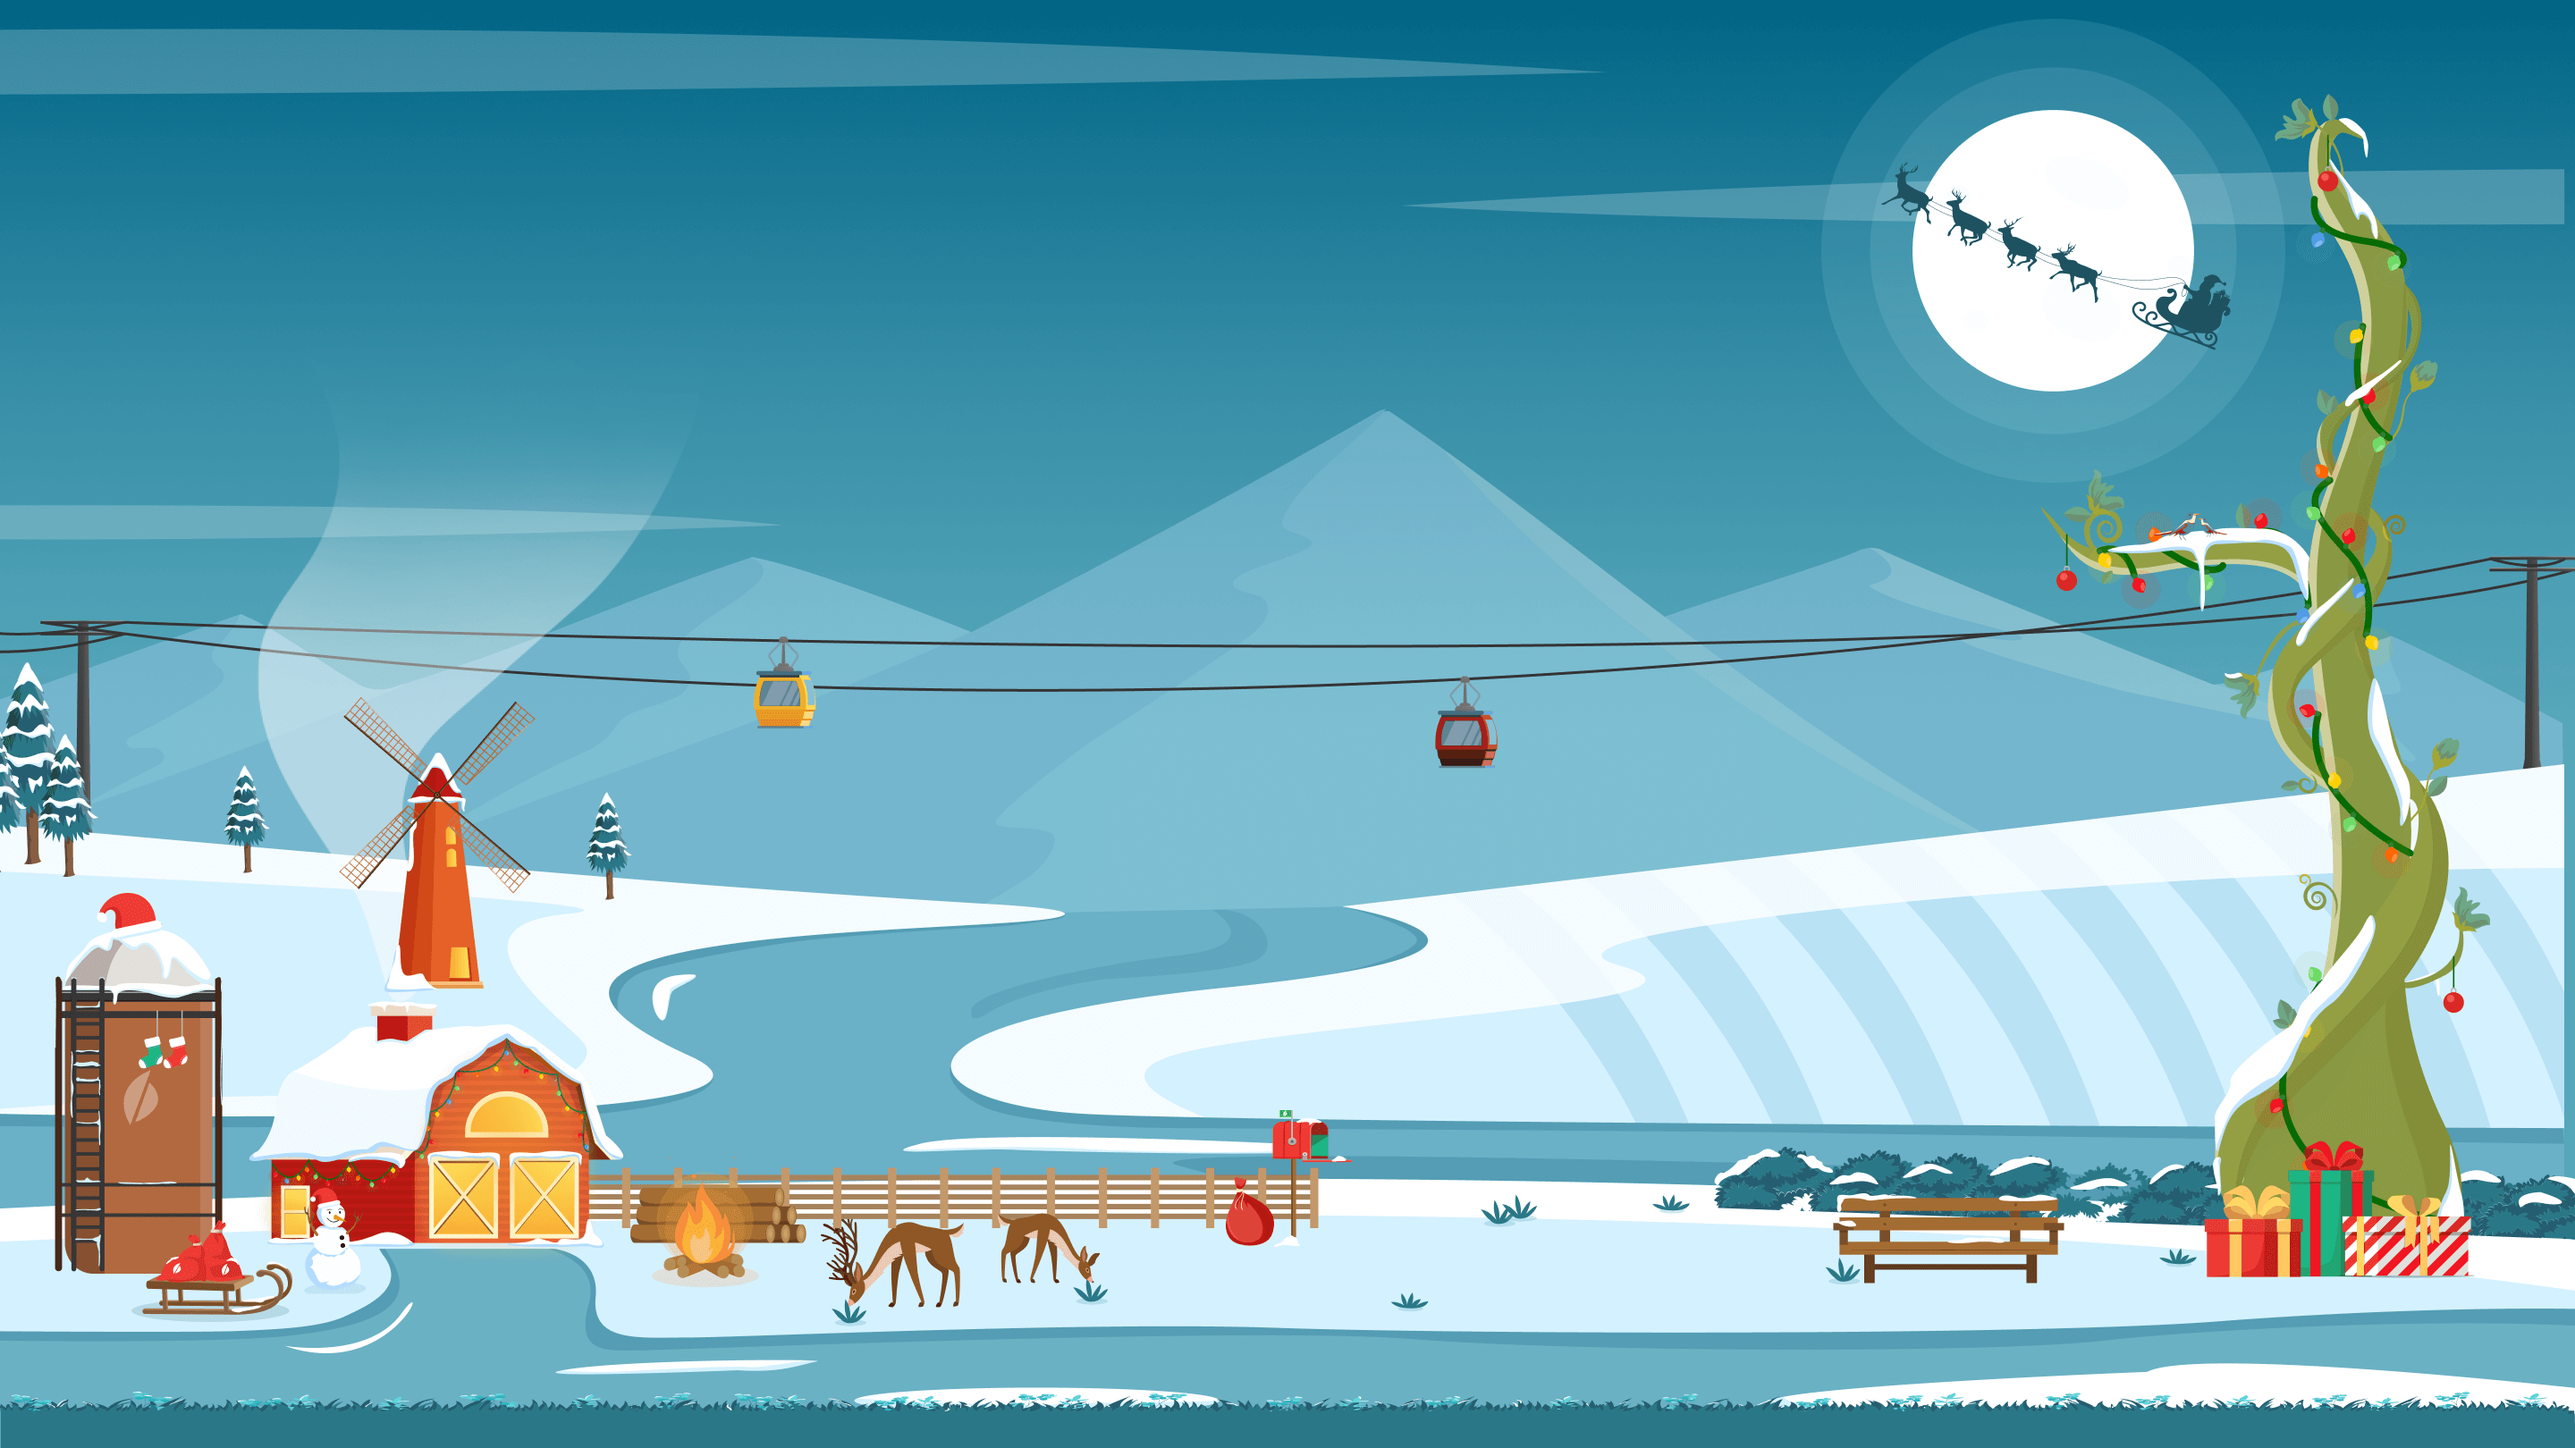
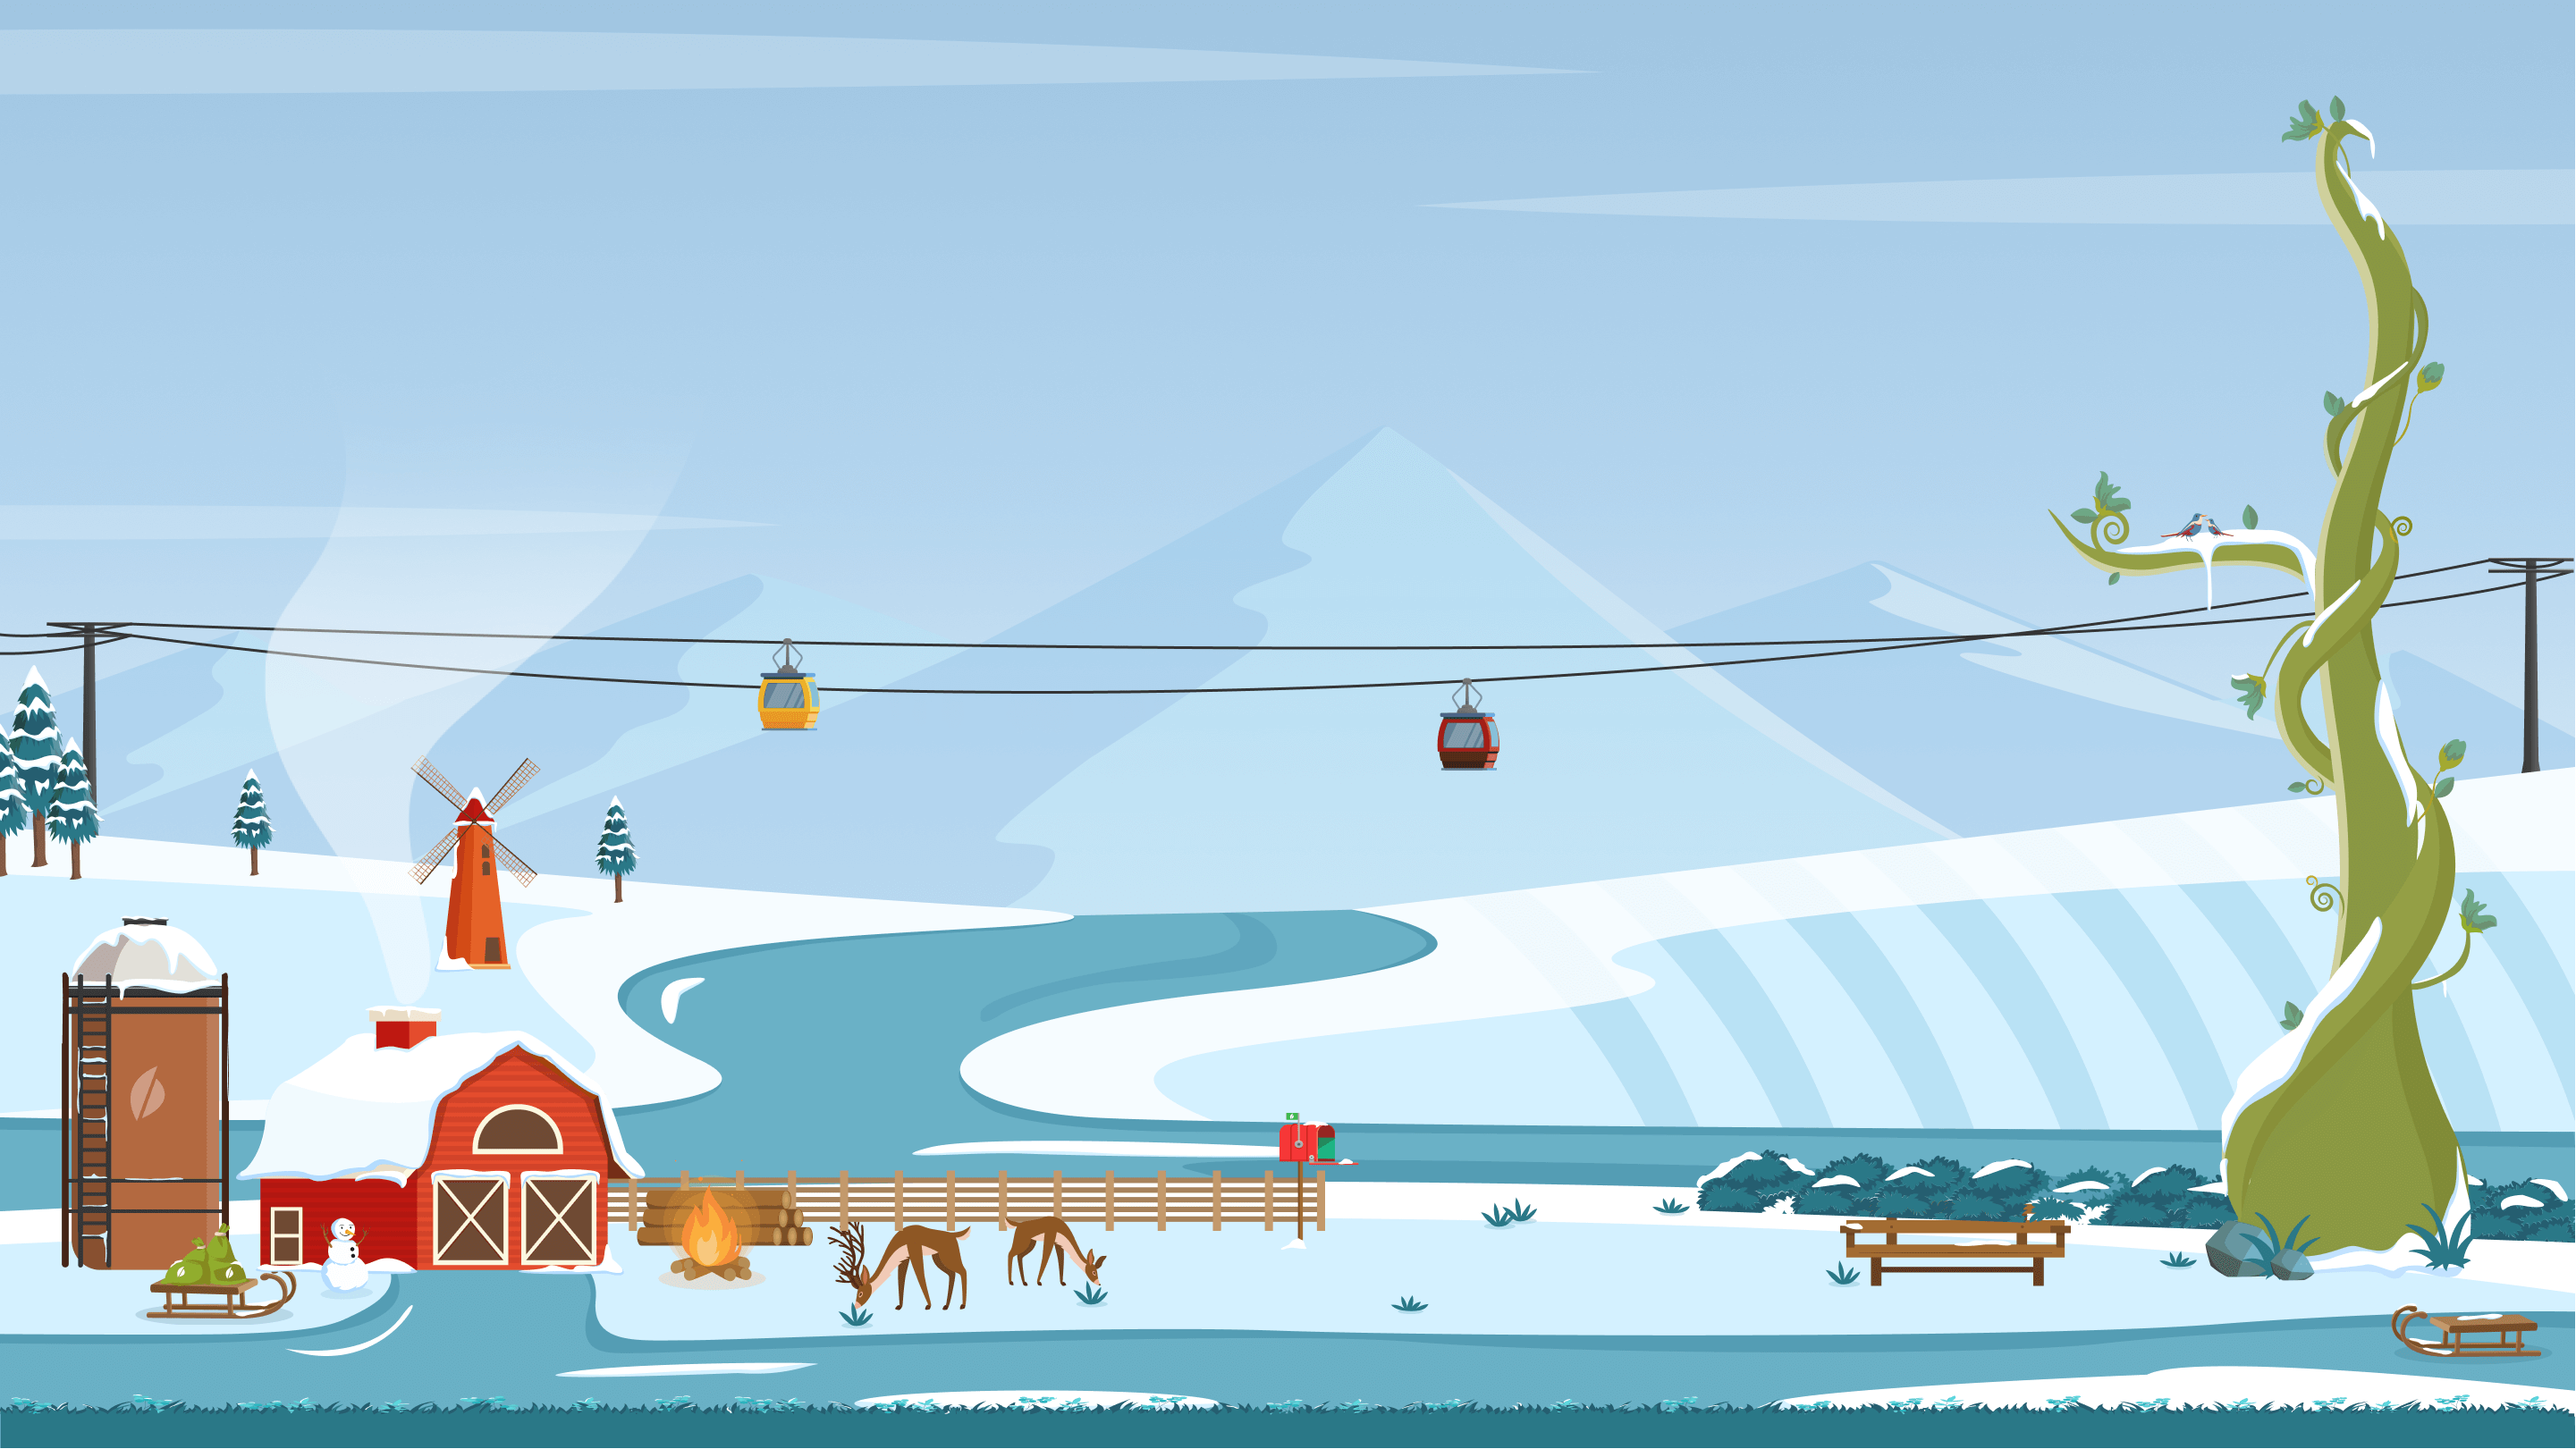
wip: primary color + compressed bg img

diff --git a/src/components/App/muiTheme.ts b/src/components/App/muiTheme.ts
@@ -122,6 +122,7 @@ export const BeanstalkPalette = {
   lightestGreen: '#EDF8EE',
   // Blues
   blue: '#C1DEF2',
+  textBlue: '#122540',
   lightBlue: '#DAEBF7',
   lightestBlue: '#F6FAFE',
   darkBlue: '#1F78B4',
@@ -133,6 +134,7 @@ export const BeanstalkPalette = {
   lightGrey: '#9E9E9E',
   lightestGrey: '#DDDDDD',
   white: '#fff',
+  offWhite: '#FCFCFC',
   black: '#333',
   // Reds
   // #FBE6E0
@@ -159,9 +161,10 @@ export const BeanstalkPalette = {
       lightBrown: '#E5D7C8',
     },
     winter: {
-      primary: '#00A6FB',
+      primary: '#1D8A79',
       light: '#177694',
       paleBlue: '#01497C',
+      iceBlue: '#A7CBE7',
       divider: '#002855',
       blueDark: '#023E7D',
       extraLight: '#168AAD',
@@ -188,8 +191,7 @@ export const BeanstalkPalette = {
   },
 };
 
-export const PAGE_BG_COLOR = BeanstalkPalette.theme.winter.light;
-export const PAGE_BORDER_COLOR = BeanstalkPalette.theme.winter.blueLight;
+export const PAGE_BORDER_COLOR = BeanstalkPalette.blue;
 
 export const IconSize = {
   xs: 14,
@@ -279,13 +281,13 @@ const muiThemeBase: ThemeOptions = {
     },
     //
     text: {
-      primary: BeanstalkPalette.white,
+      primary: BeanstalkPalette.textBlue,
       secondary: BeanstalkPalette.lightGrey,
       tertiary: BeanstalkPalette.lightestGrey,
     },
     background: {
-      default: '#016586',
-      paper: BeanstalkPalette.theme.winter.paleBlue,
+      default: BeanstalkPalette.theme.winter.iceBlue,
+      paper: BeanstalkPalette.offWhite,
     },
   },
 
